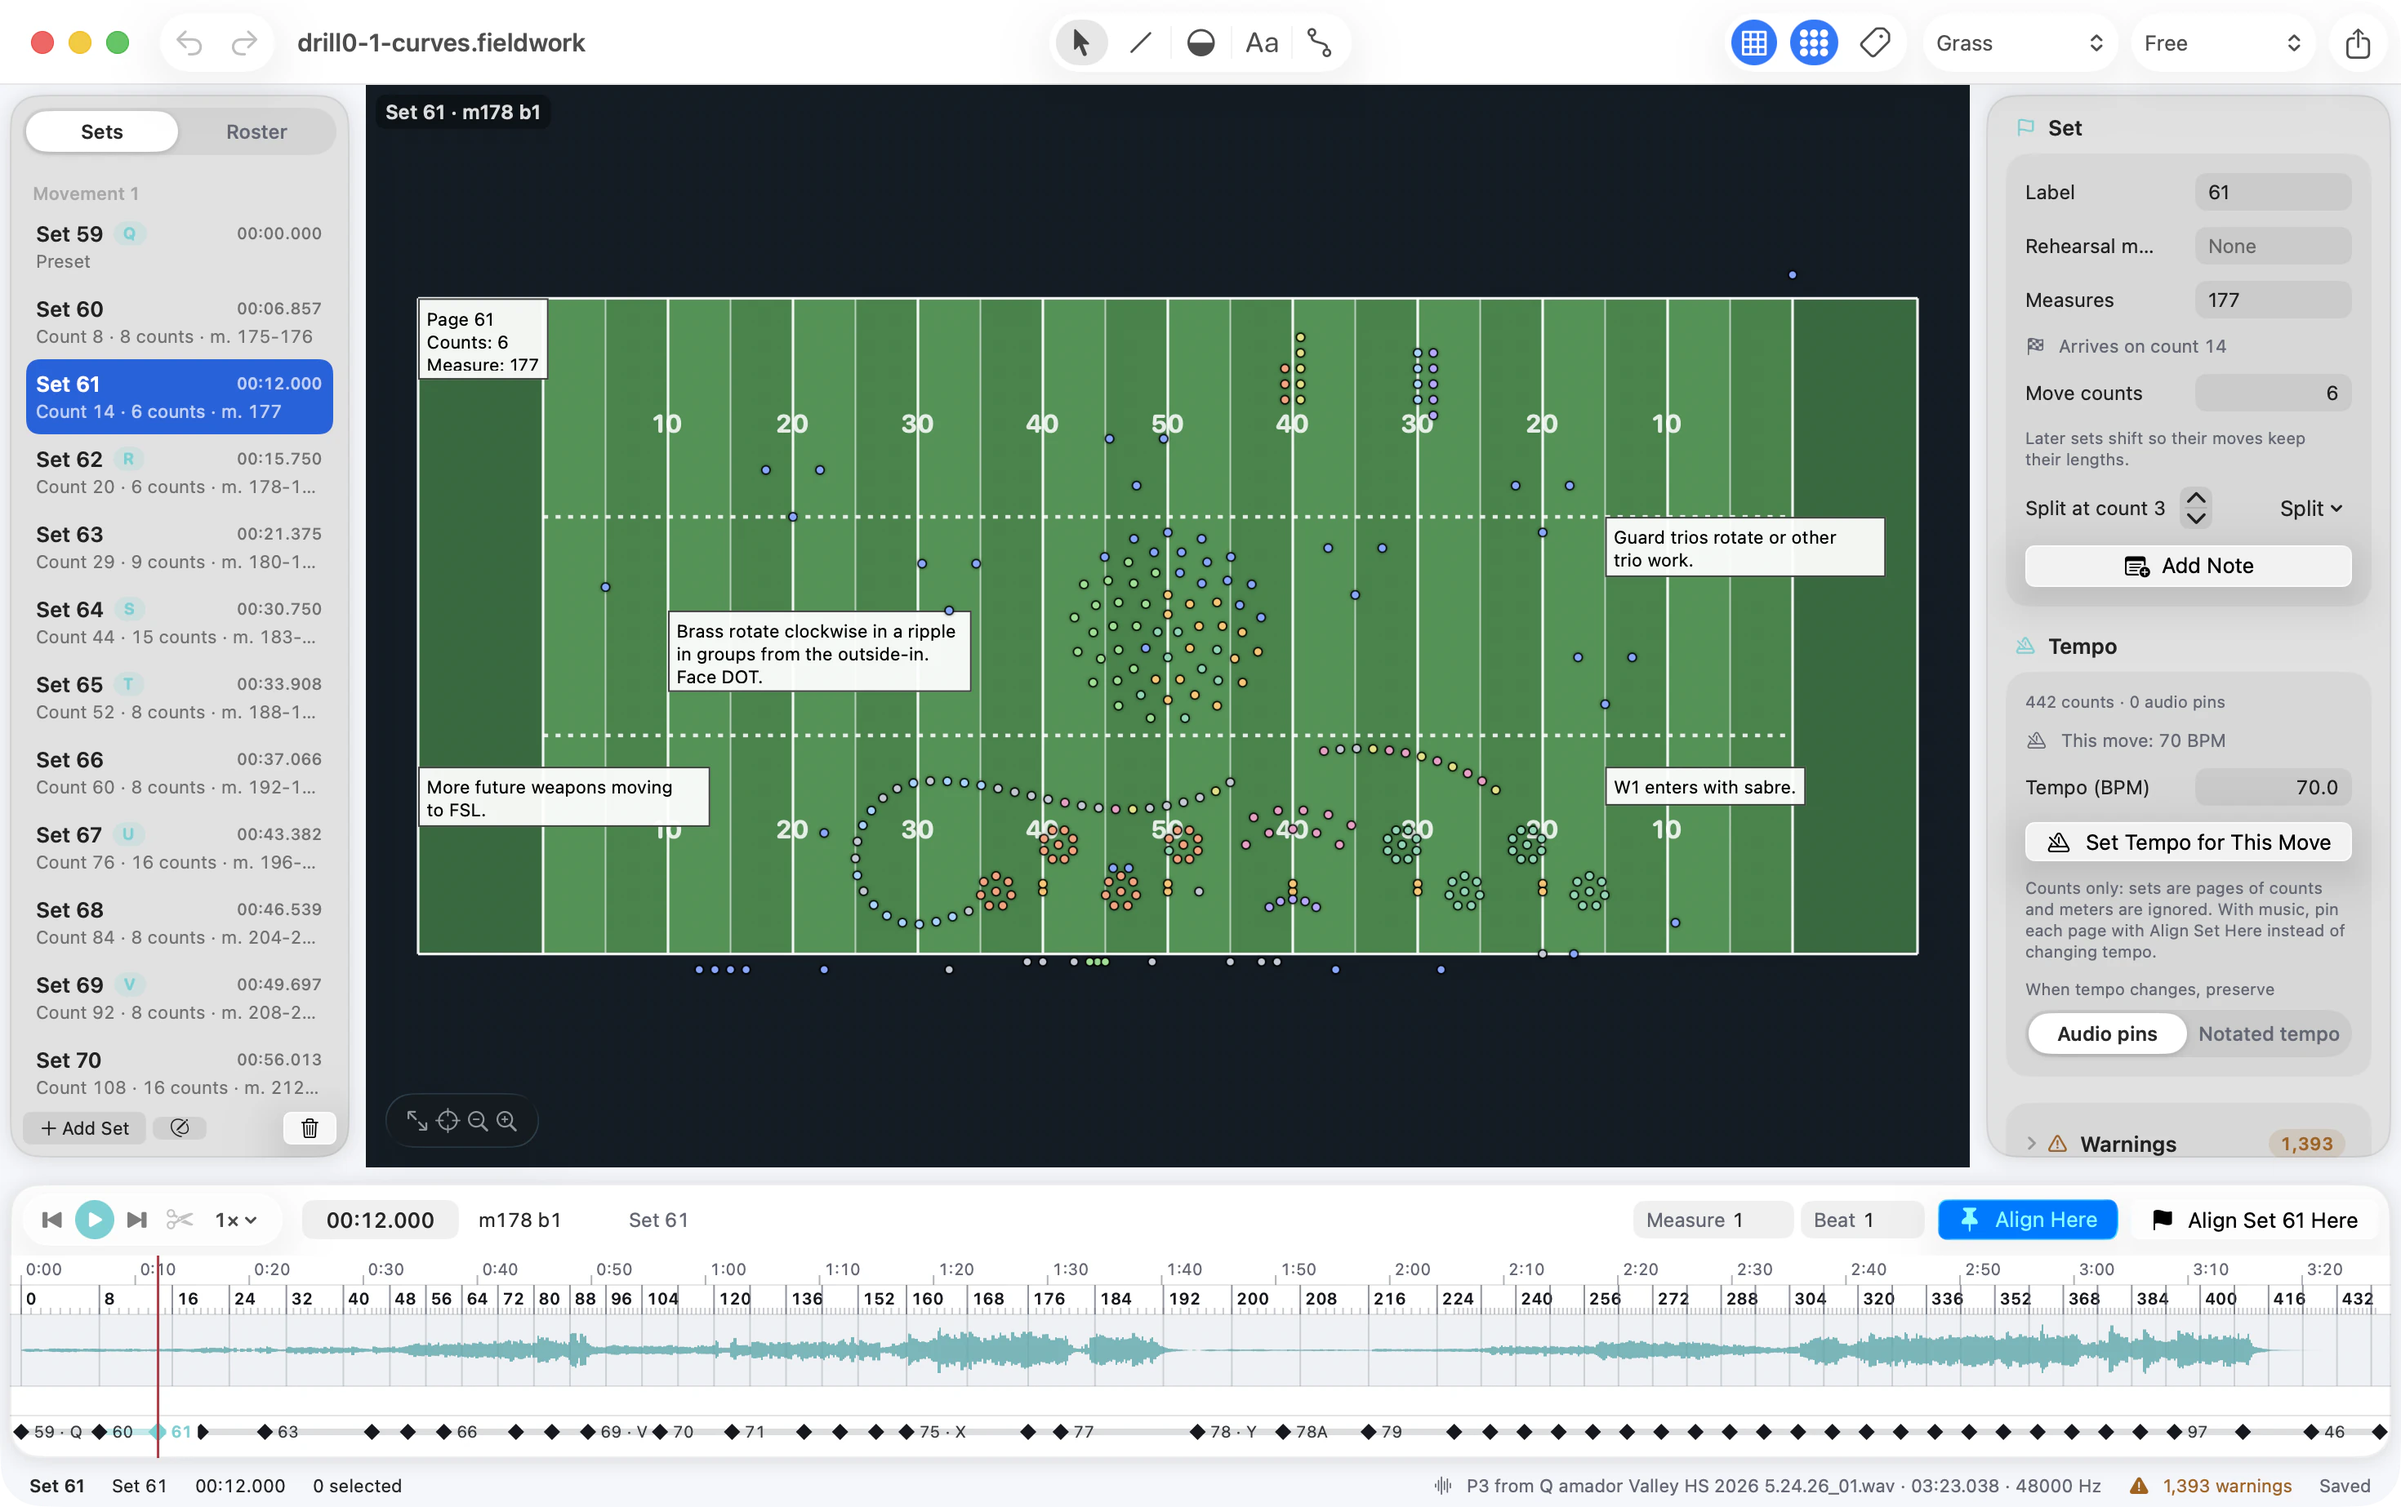
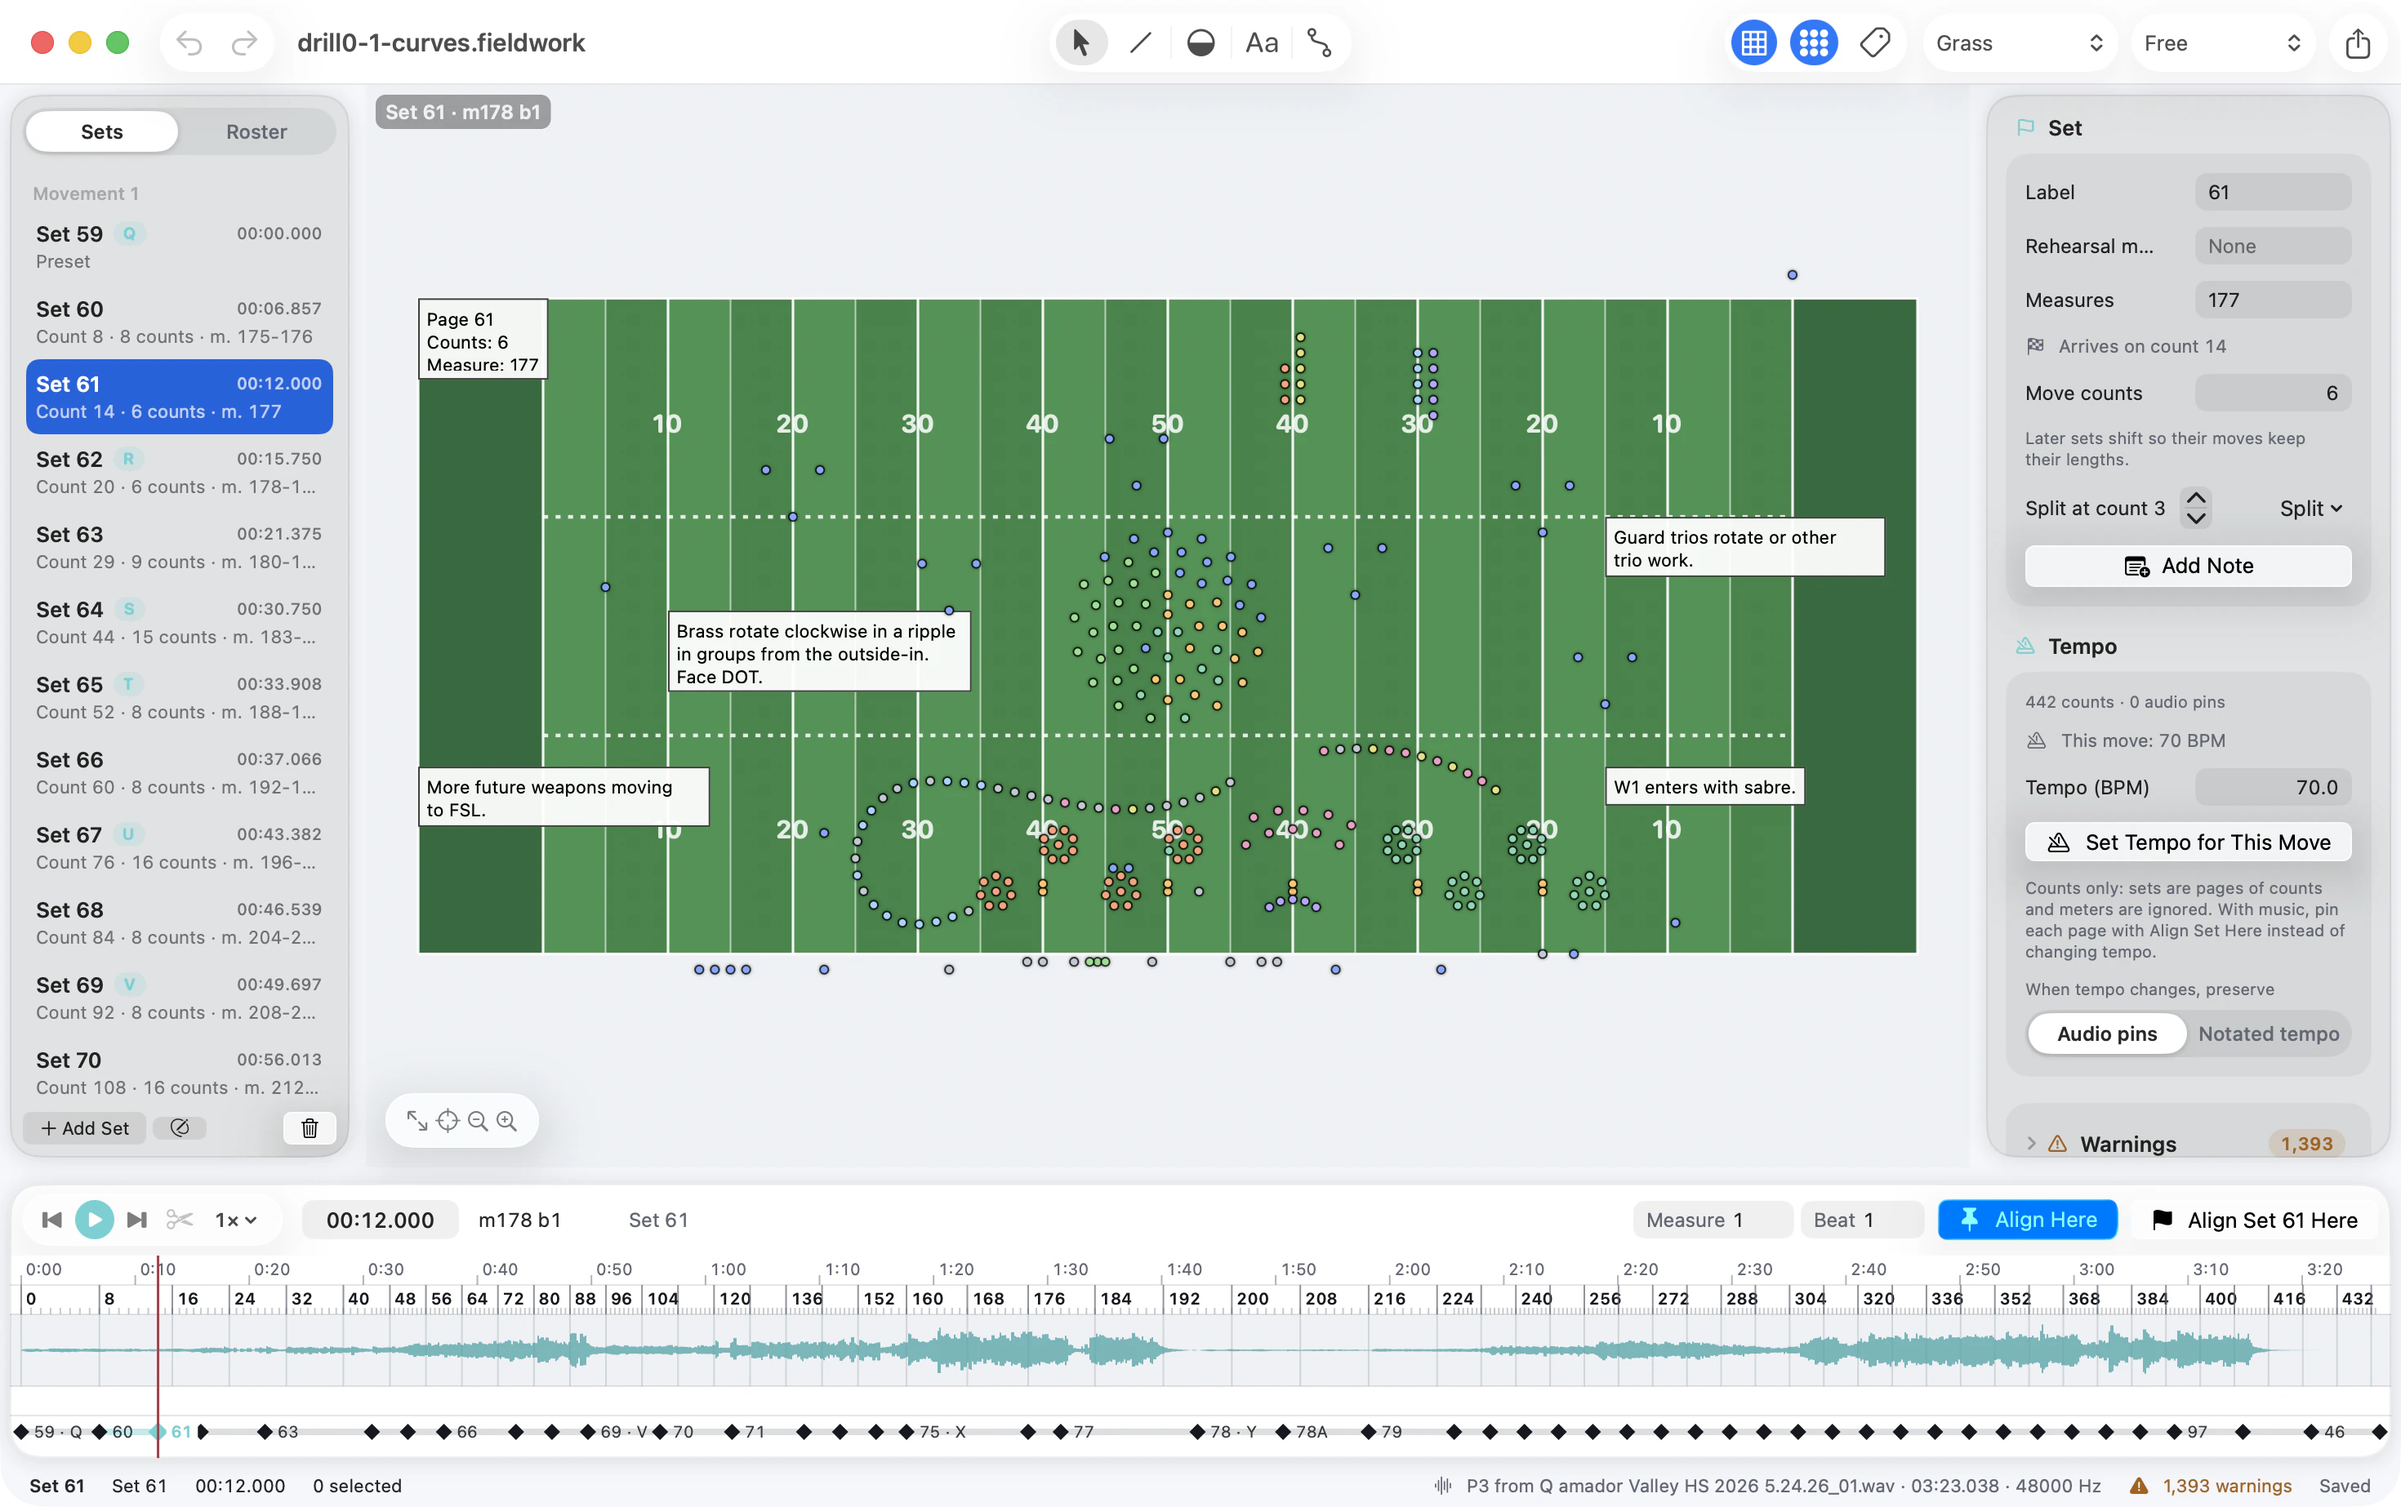
fix(web): recapture light screenshots with the light default field and rename the dark style to default

Changed region(s): [[0.1548, 0.0309, 0.8357, 0.7719]]

diff --git a/index.html b/index.html
@@ -82,7 +82,7 @@ img[data-shot]{aspect-ratio:2940/1846;object-fit:cover;object-position:top;heigh
 </div></section>
 <section class="themes" id="themes" aria-labelledby="themes-title"><div class="wrap">
 <div class="center reveal"><p class="section-number">04 / MAKE IT YOURS</p><h2 id="themes-title">Your field.<br>Your look.</h2><p>Four field styles, in light or dark. Pick the one that reads best for the way you work.</p></div>
-<div class="theme-controls"><div class="segmented theme-styles" aria-label="Field style"><button aria-pressed="true" data-style="grass">Grass</button><button aria-pressed="false" data-style="textured">Textured Grass</button><button aria-pressed="false" data-style="paper">Paper</button><button aria-pressed="false" data-style="dark">Dark</button></div>
+<div class="theme-controls"><div class="segmented theme-styles" aria-label="Field style"><button aria-pressed="true" data-style="grass">Grass</button><button aria-pressed="false" data-style="textured">Textured Grass</button><button aria-pressed="false" data-style="paper">Paper</button><button aria-pressed="false" data-style="default">Default</button></div>
 <div class="segmented theme-looks" aria-label="Appearance"><button aria-pressed="true" data-look="light"><span aria-hidden="true">☀</span> Light</button><button aria-pressed="false" data-look="dark"><span aria-hidden="true">☾</span> Dark</button></div></div>
 <div class="theme-stage" id="theme-stage" data-look="light"><div class="image-stack"><img id="theme-image" class="active" data-shot="0" src="assets/screenshots/theme-grass-light.webp" alt="Set 61 on the grass field style, in light appearance" width="2940" height="1846" loading="lazy"></div></div>
 <div class="demo-caption"><h3 id="theme-heading">Grass</h3><p id="theme-description">Mowed grass with white lines and yard numbers. The field the way your performers see it.</p></div>
@@ -99,7 +99,7 @@ img[data-shot]{aspect-ratio:2940/1846;object-fit:cover;object-position:top;heigh
 <details><summary>Is Fieldwork a Mac app?</summary><p>Fieldwork has a native Mac workspace for designing formations, navigating sets, and reviewing movement on the field.</p></details>
 <details><summary>How do I move between sets?</summary><p>Select a set in the navigator to bring its formation into view. Labels, rehearsal marks, and counts help you find your place, while the inspector shows the details of the selected set.</p></details>
 <details><summary>Can I work with music?</summary><p>Work with an audio waveform, playhead, and set markers in one timeline. Use the playback and alignment controls to review how your formations relate to the music.</p></details>
-<details><summary>Can I change how the field looks?</summary><p>Yes. Choose Grass, Textured Grass, Paper, or Dark from the toolbar or View › Field Style. The field style is a personal view preference, so it never changes the show file, and the window follows your Mac’s light or dark appearance.</p></details>
+<details><summary>Can I change how the field looks?</summary><p>Yes. Choose Default, Grass, Textured Grass, or Paper from the toolbar or View › Field Style. The field style is a personal view preference, so it never changes the show file, and the window follows your Mac’s light or dark appearance.</p></details>
 <details><summary>How are shows saved?</summary><p>Save your show as a .fieldwork document and reopen it in the Mac app to keep working on your formations.</p></details>
 <details><summary>Where can I get Fieldwork?</summary><p>Release details are coming. In the meantime, explore the workspace and get a feel for designing your next show in Fieldwork.</p></details>
 </div></div></section>
@@ -307,7 +307,7 @@ The blue dot formation above is decorative SVG, not a product screenshot. -->
     grass: ['Grass', 'Mowed grass with white lines and yard numbers. The field the way your performers see it.'],
     textured: ['Textured Grass', 'A grain of grass blades and darker sidelines, for a field with a little more life in it.'],
     paper: ['Paper', 'Near-white graph paper with a step grid, like a printed drill chart.'],
-    dark: ['Dark', 'A quiet blue-gray surface with gray checkpoint lines, so every dot stands out.']
+    default: ['Default', 'A quiet field with checkpoint lines, navy in dark appearance and pale blue-gray in light, so every dot stands out.']
   };
   let themeStyle = 'grass';
   let themeLook = 'light';
